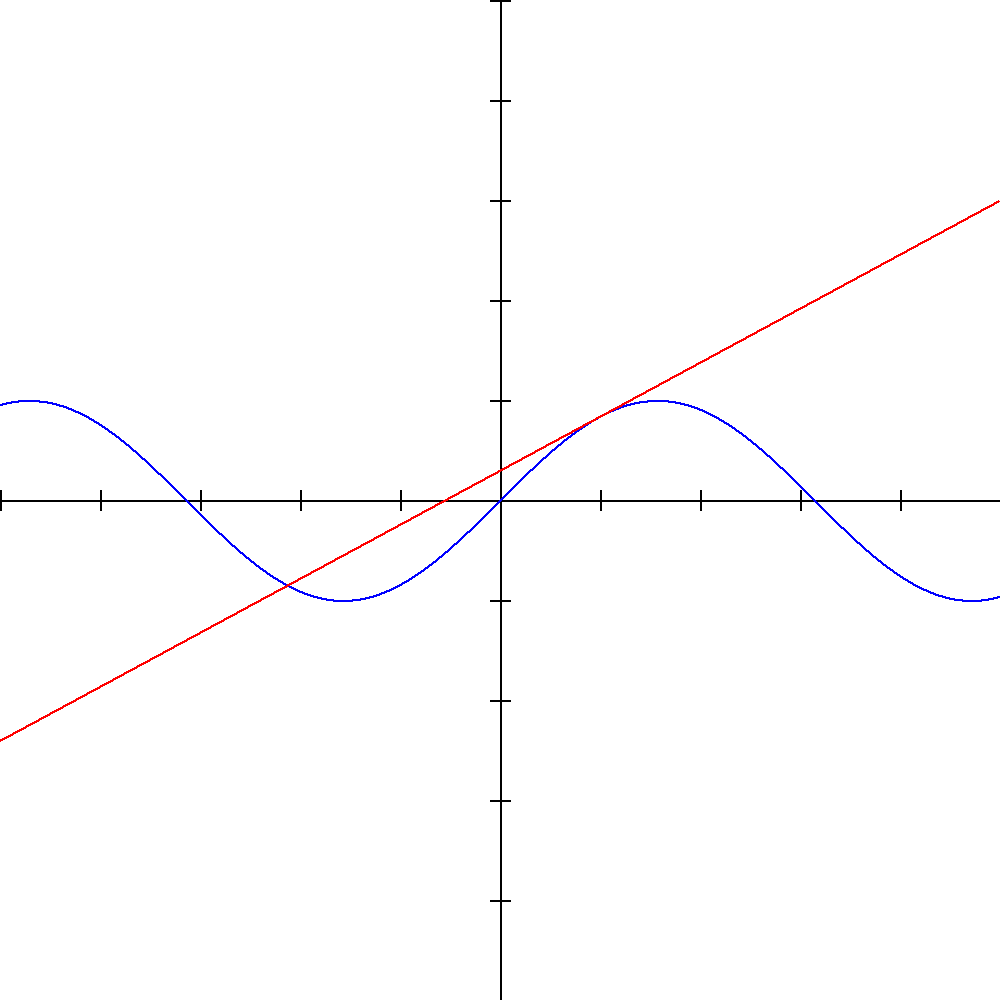
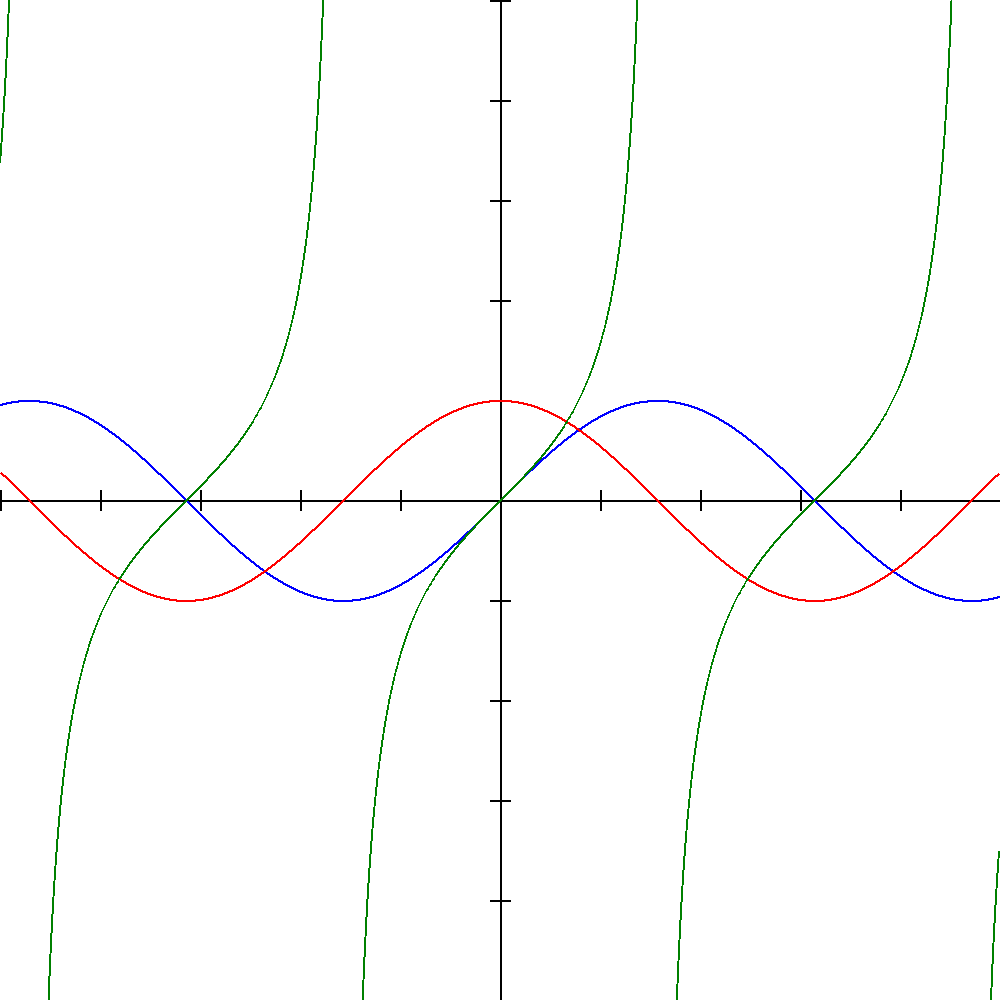
Delete 'function definition'

diff --git a/python/main.py b/python/main.py
@@ -4,34 +4,6 @@ import re
 
 INF = 1000000000
 
-
-# function definition
-def sqrt(x):
-    if x >= 0:
-        return math.sqrt(x)
-    else:
-        return INF
-def pow(x, y):
-    if x > 0:
-        return math.pow(x, y)
-    elif x == 0:
-        return 0
-    else:
-        return INF
-def log(x, a):
-    if x > 0 and a > 0 and a != 1:
-        return math.log(x, a)
-    else:
-        return INF
-def ln(x):
-    return log(x, math.e)
-def gamma(x):
-    if x.is_integer() and x <= 0:
-        return INF
-    else:
-        return math.gamma(x)
-
-
 # input data
 print("Enter the x range of the graph")
 displayXRange = float(input()) * 2
@@ -48,11 +20,11 @@ strInput3 = input()
 
 
 # string conversion
-strInput1 = re.sub(r'(?=pi|sin|cos|tan|exp|floor)', 'math.', strInput1)
+strInput1 = re.sub(r'(?=pi|sin|cos|tan|exp|floor|sqrt|pow|log|gamma)', 'math.', strInput1)
 strInput1 = re.sub(r'\^', '**', strInput1)
-strInput2 = re.sub(r'(?=pi|sin|cos|tan|exp|floor)', 'math.', strInput2)
+strInput2 = re.sub(r'(?=pi|sin|cos|tan|exp|floor|sqrt|pow|log|gamma)', 'math.', strInput2)
 strInput2 = re.sub(r'\^', '**', strInput2)
-strInput3 = re.sub(r'(?=pi|sin|cos|tan|exp|floor)', 'math.', strInput3)
+strInput3 = re.sub(r'(?=pi|sin|cos|tan|exp|floor|sqrt|pow|log|gamma)', 'math.', strInput3)
 strInput3 = re.sub(r'\^', '**', strInput3)
 
 
